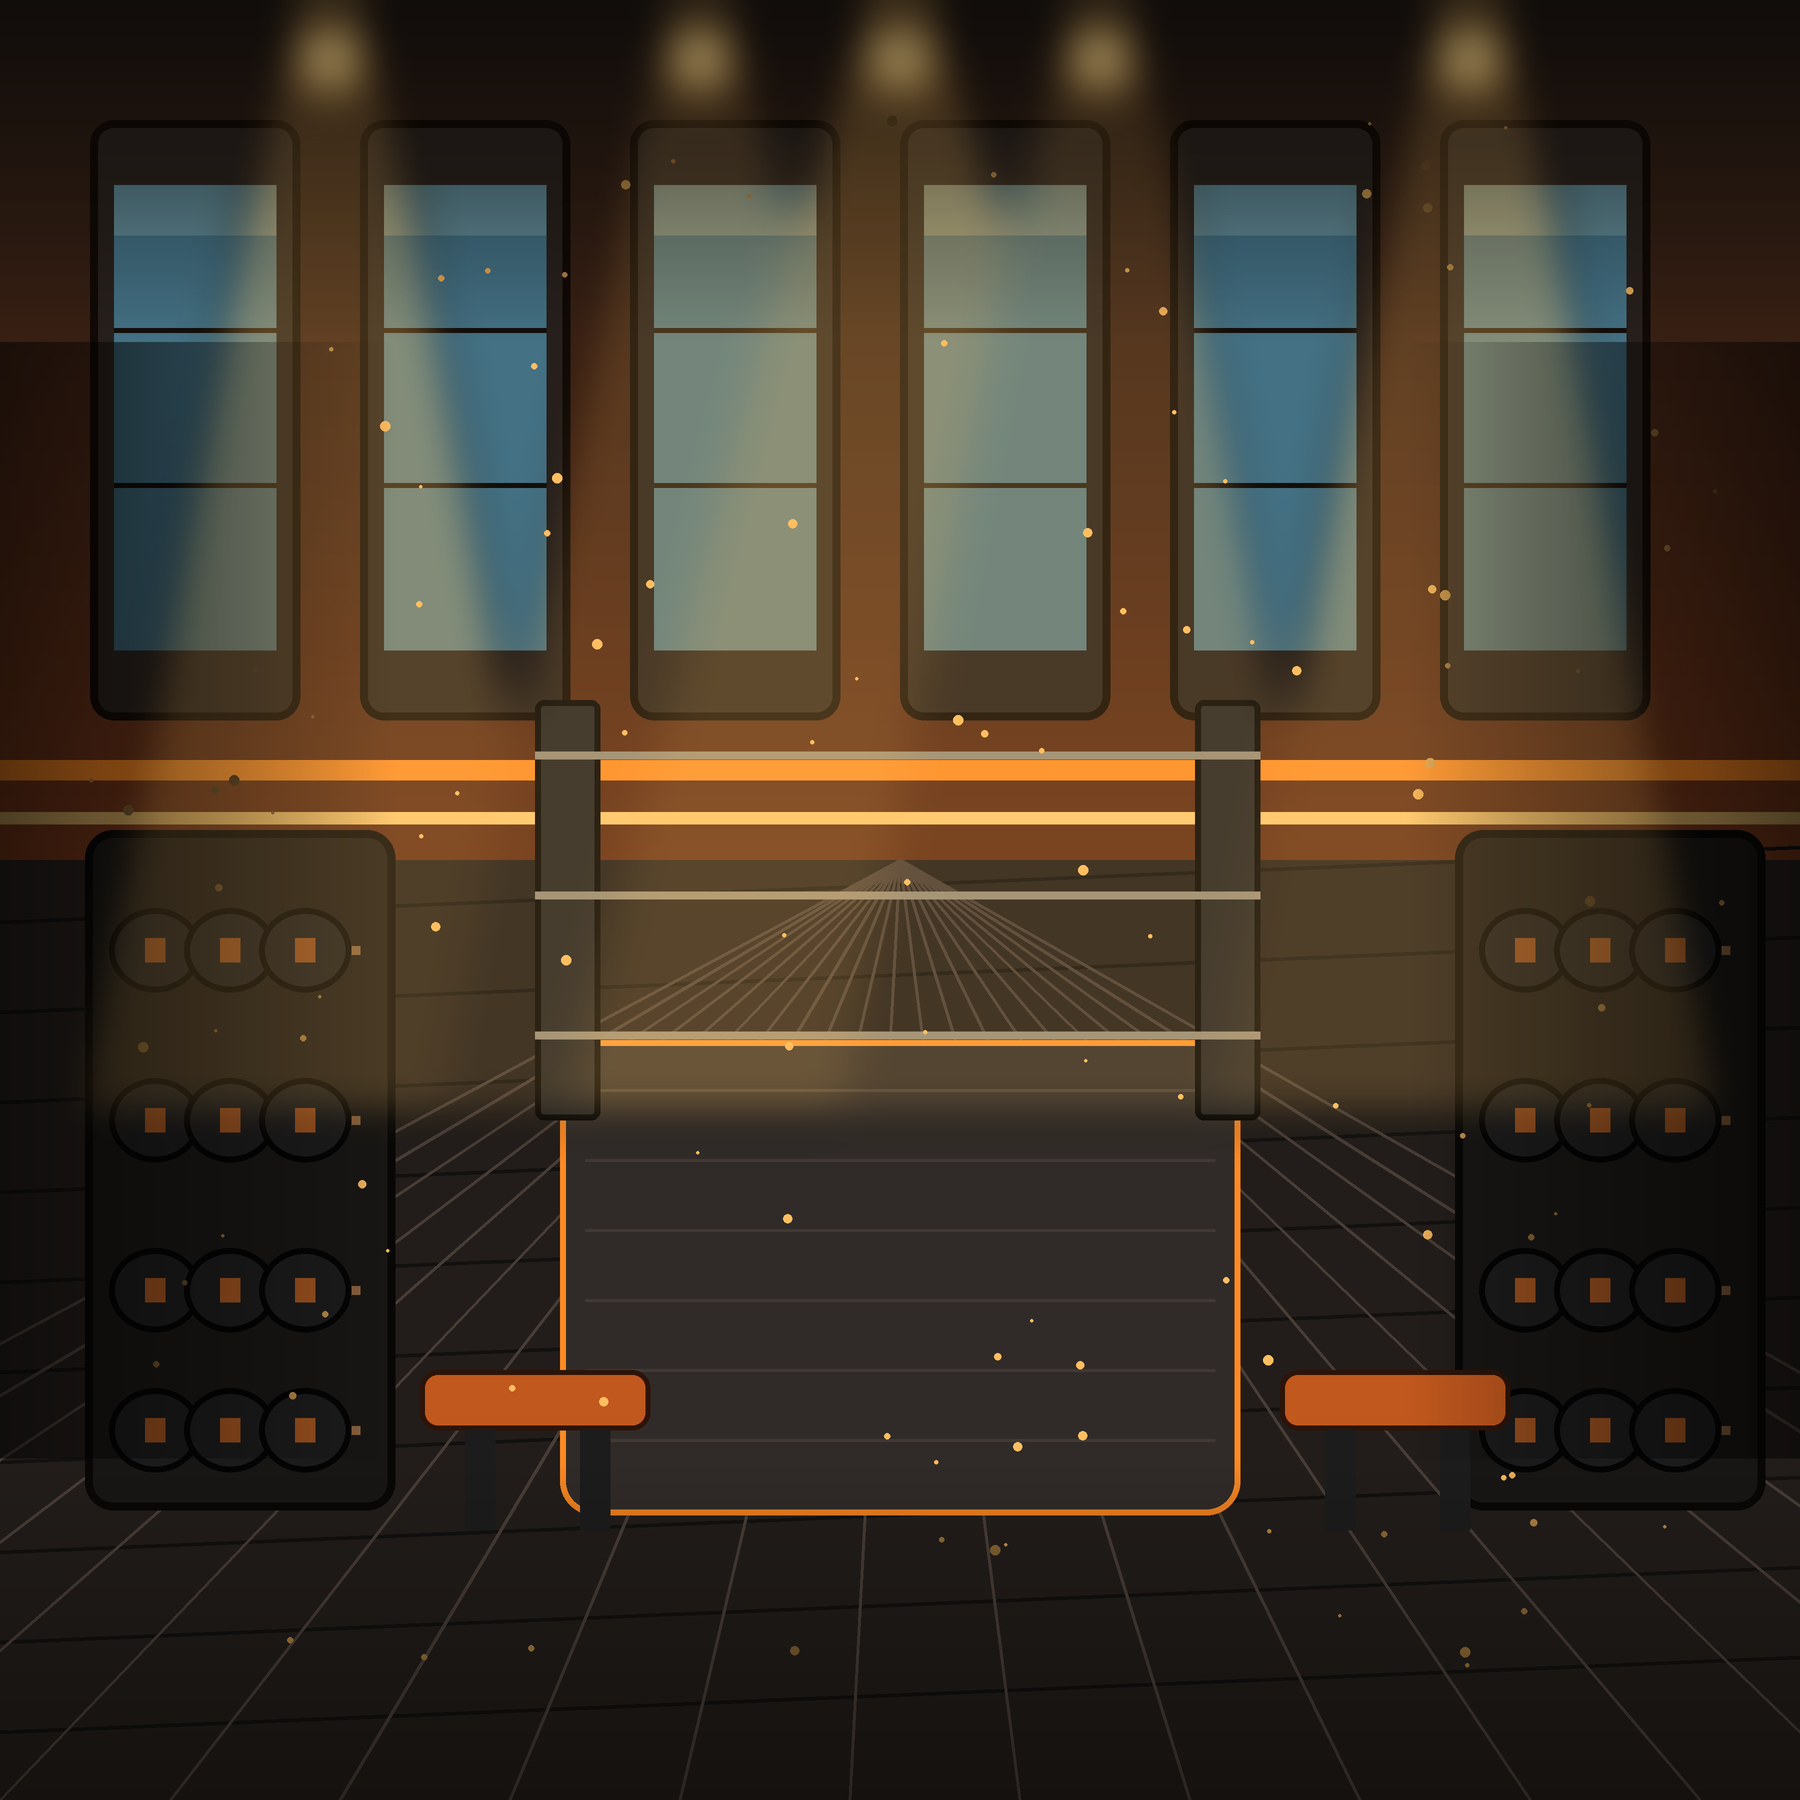
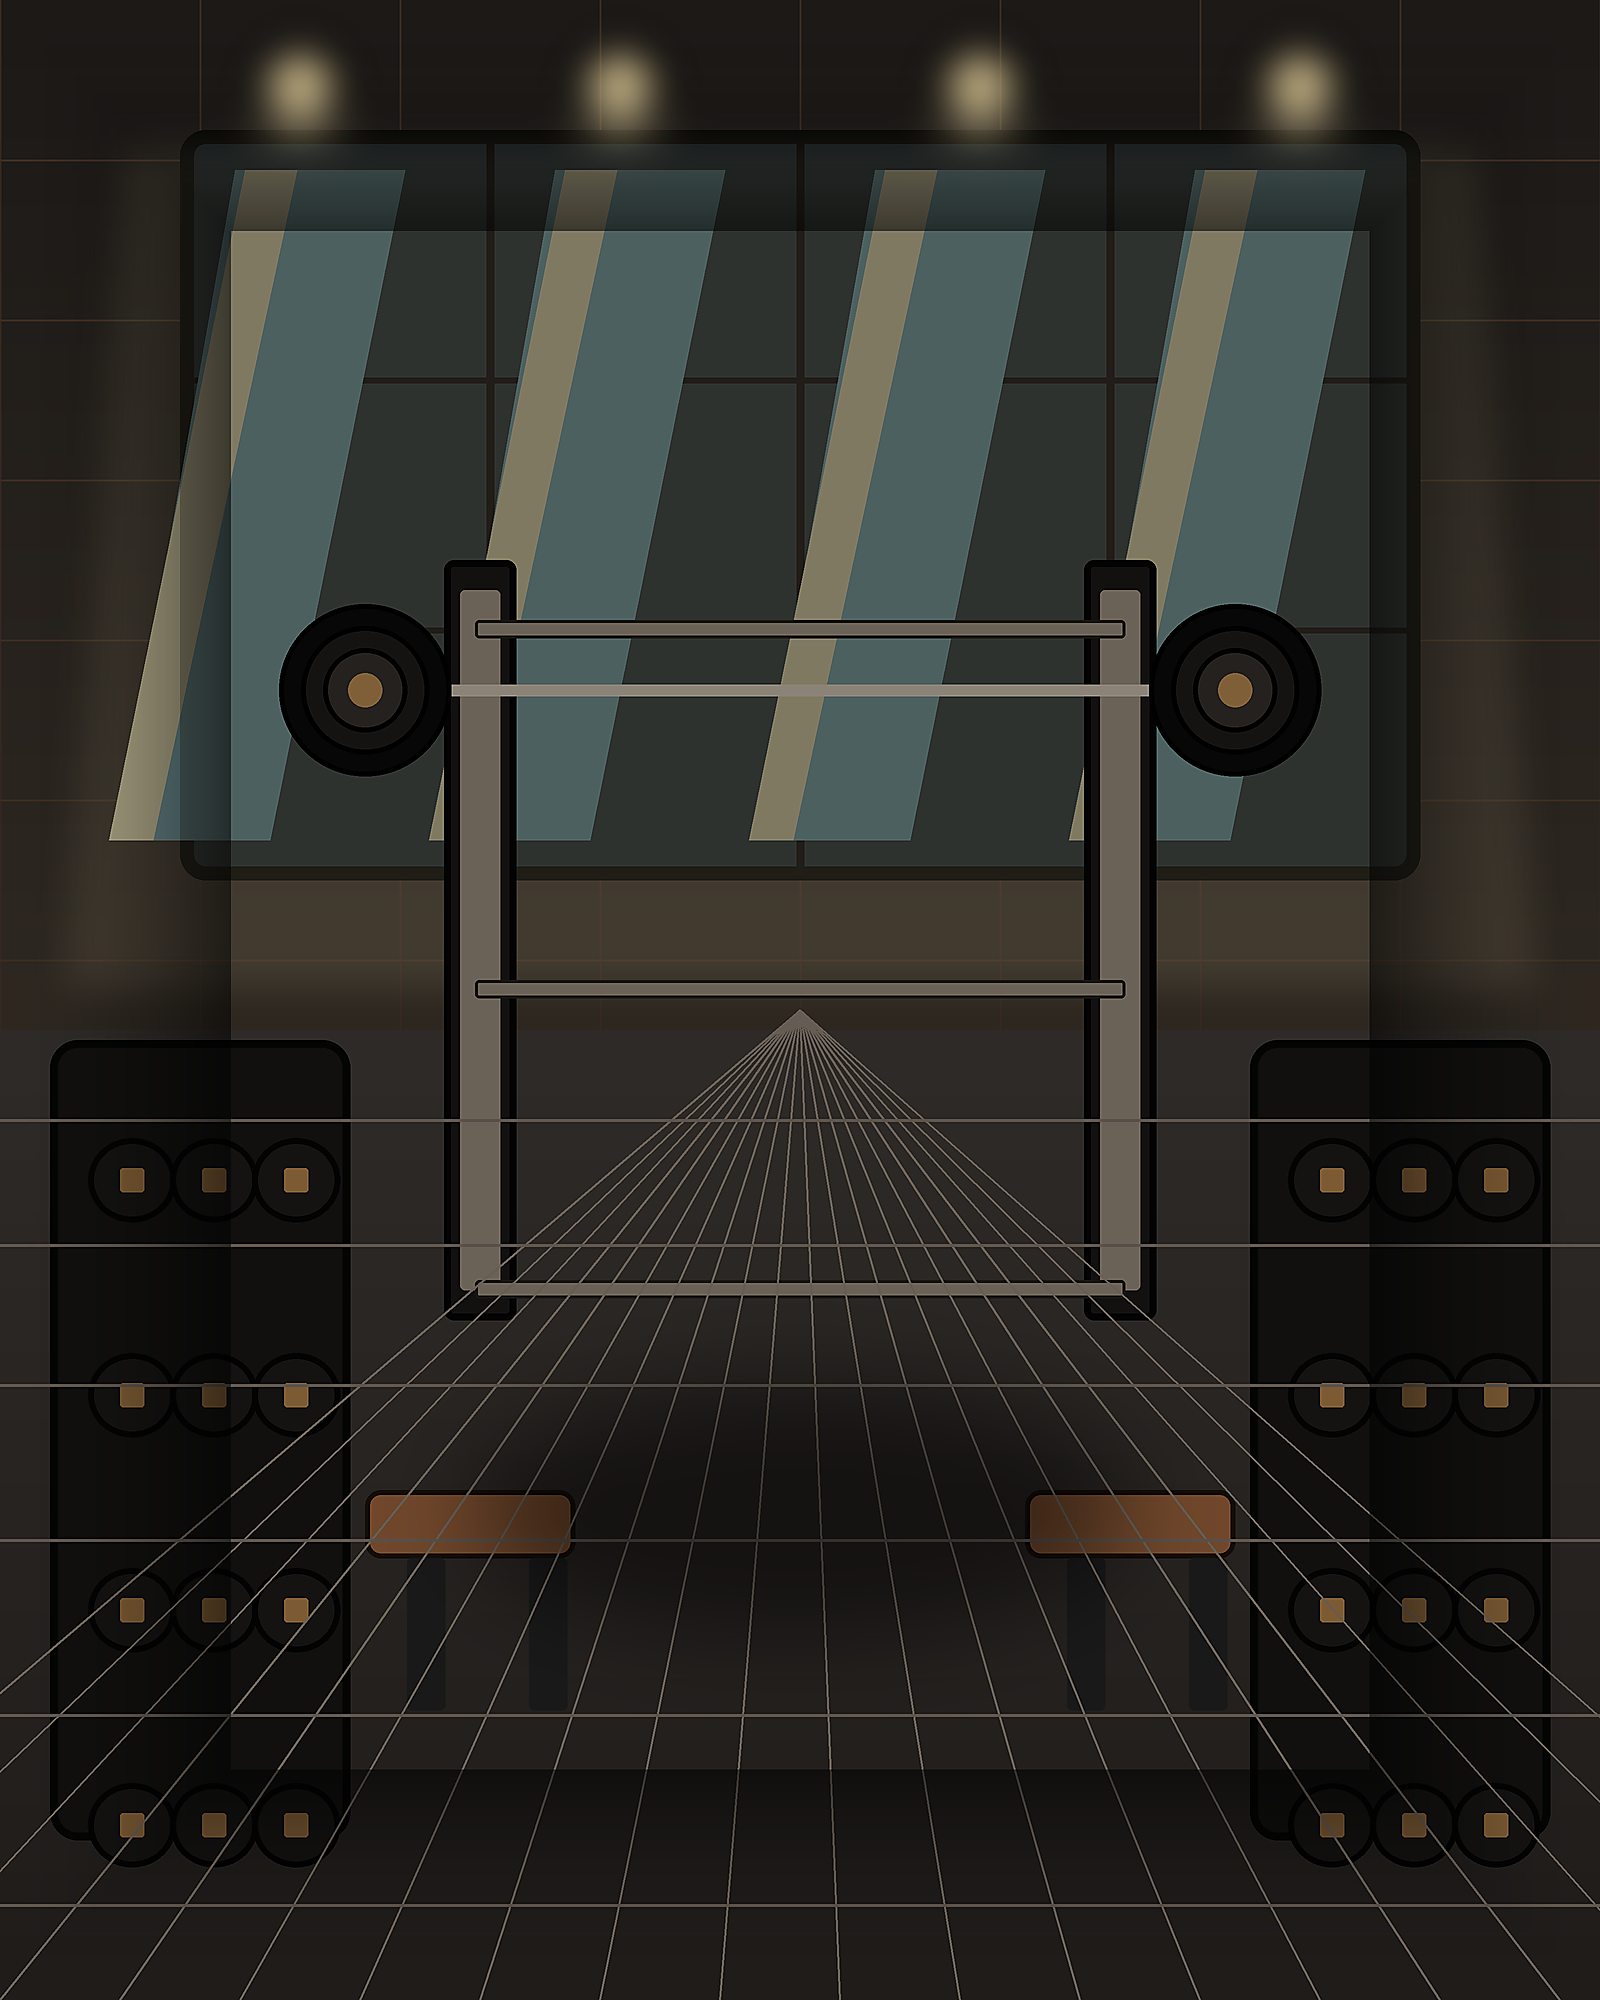
Redesign macho clicker gym background

diff --git a/macho-website/src/app/globals.css b/macho-website/src/app/globals.css
@@ -464,10 +464,10 @@ main {
 }
 
 .macho-click-stage-glow {
-  animation: macho-click-stage-glow 4.8s ease-in-out infinite;
+  animation: macho-click-stage-glow 5.8s ease-in-out infinite;
   background:
-    linear-gradient(110deg, transparent 0%, transparent 32%, rgba(255, 230, 174, 0.26) 45%, transparent 58%, transparent 100%),
-    linear-gradient(180deg, rgba(255, 184, 91, 0.1), transparent 42%, rgba(42, 20, 11, 0.28)),
+    linear-gradient(110deg, transparent 0%, transparent 32%, rgba(255, 246, 214, 0.2) 45%, transparent 58%, transparent 100%),
+    linear-gradient(180deg, rgba(255, 246, 214, 0.08), transparent 42%, rgba(16, 12, 10, 0.3)),
     linear-gradient(90deg, rgba(0, 0, 0, 0.32), transparent 22%, transparent 78%, rgba(0, 0, 0, 0.32));
   background-size: 160% 100%, 100% 100%, 100% 100%;
 }